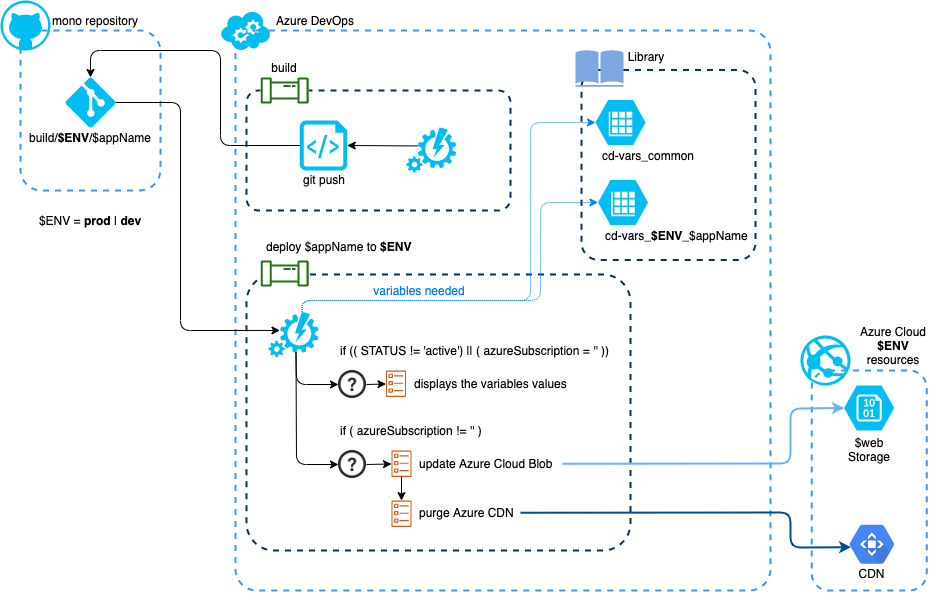
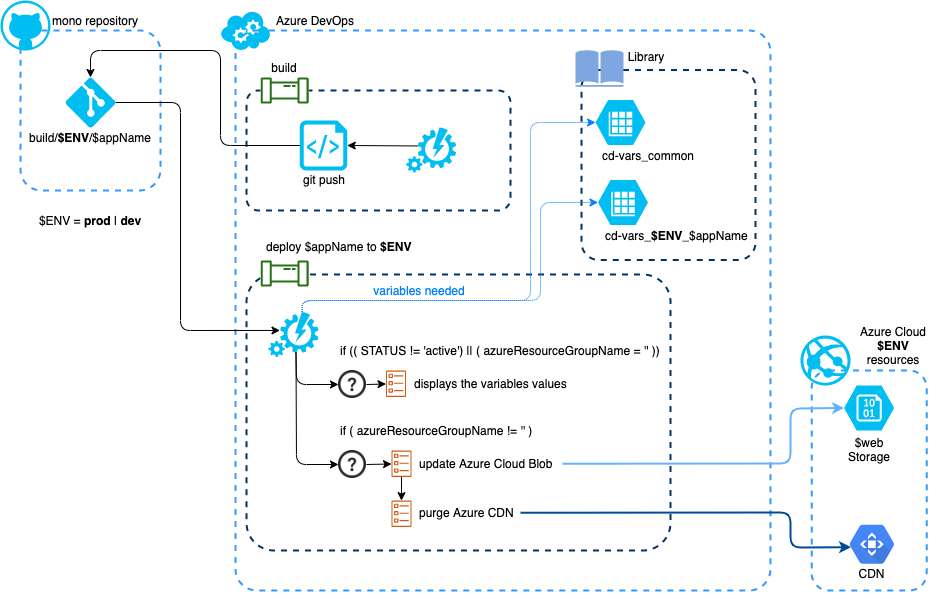
update(azure pipelines): CD deploy one template

diff --git a/docs/build-release-flow/azure-devops_pipelines-flows.md b/docs/build-release-flow/azure-devops_pipelines-flows.md
@@ -74,19 +74,16 @@ It should be created one by application and use the template **.azure-pipelines/
 
 It should be created one by application, environment (`prod` - production or `dev` - development) and use the template **.azure-pipelines/cd/templates/deploy-one.yml**
 
-⚠&nbsp;&nbsp;you need to create a `service connection` under the MS Azure DevOps project settings to connect with the MS Azure Cloud (use the Azure Resouce Manager connection to connect to your MS Azure Cloud subscription)
+⚠&nbsp;&nbsp;you need to create a `service connection` under the MS Azure DevOps project settings to connect with the MS Azure Cloud (use the Azure Resouce Manager connection to connect to your MS Azure Cloud subscription. **IMPORTANT:** use the same name)
 
 ⚠&nbsp;&nbsp;to run this pipeline you must have created two variable groups on the pipelines library (remember to allow the access to all the pipelines):
 
-- `cd-vars_commons` it will be used to all CD (**_continuous deployment_**) pipelines
-  - `azureSubscriptionID` - the subscription ID
-  - `azureSubscriptionResource` - the MS Azure DevOps service connection name
 - `cd-vars_$ENV_$appName` which should contains
   - `STATUS` - it must have the value `active` to update the Azure Cloud Storage and Azure Could CDN
   - to update the storage
     - `azureStorageName`
   - to update the cdn
-    - `azureResourceGroupName` - name of the service connection added to the `Service connections` under the MS Azure DevOps project settings
+    - `azureResourceGroupName` - name of the service connection added to the `Service connections` under the MS Azure DevOps project settings (**IMPORTANT:** remember to use the same name from the MS Azure Cloud subscription)
     - `azureCdnEndpointName`
     - `azureCdnProfileName`
 
